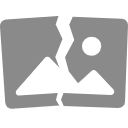
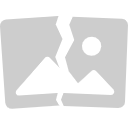
fix(chat): 回退图片展示优化

diff --git a/src/components/Chat/AiBubbleContent/AiImage/AiImage.module.css b/src/components/Chat/AiBubbleContent/AiImage/AiImage.module.css
@@ -11,8 +11,8 @@
 }
 
 .failed :global(.ant-image-img) {
-  width: 30px !important;
-  height: 30px !important;
+  width: 50px !important;
+  height: 50px !important;
   object-fit: contain !important;
   background: none !important;
   background-image: none !important;
